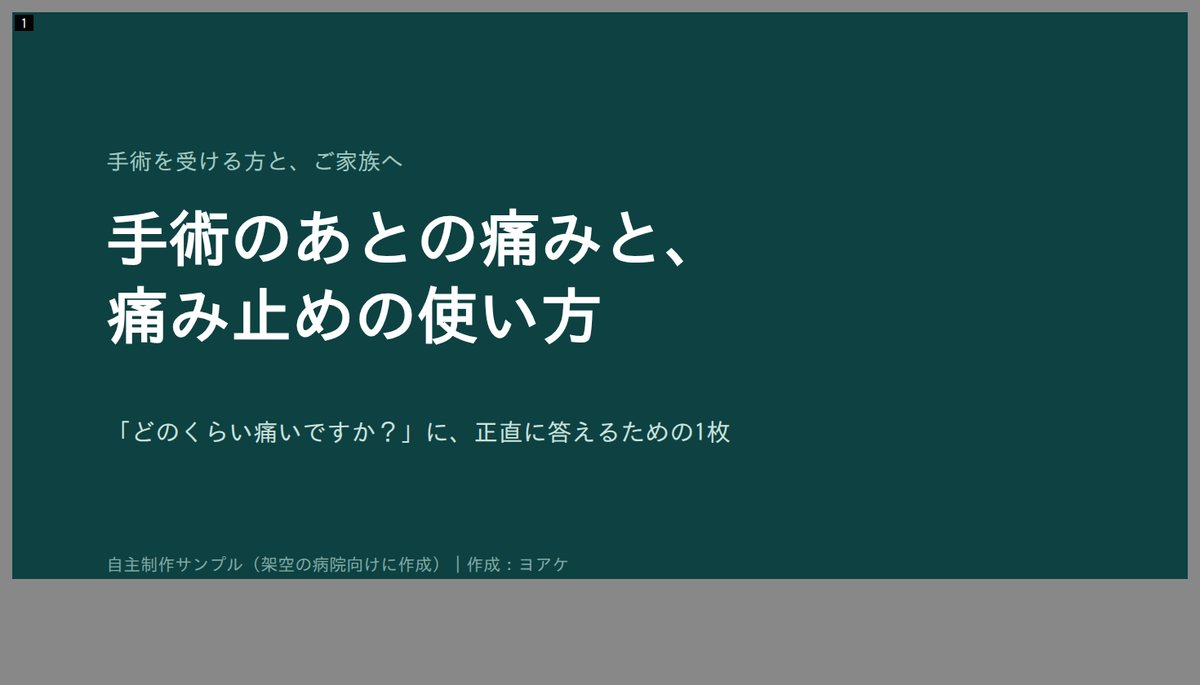
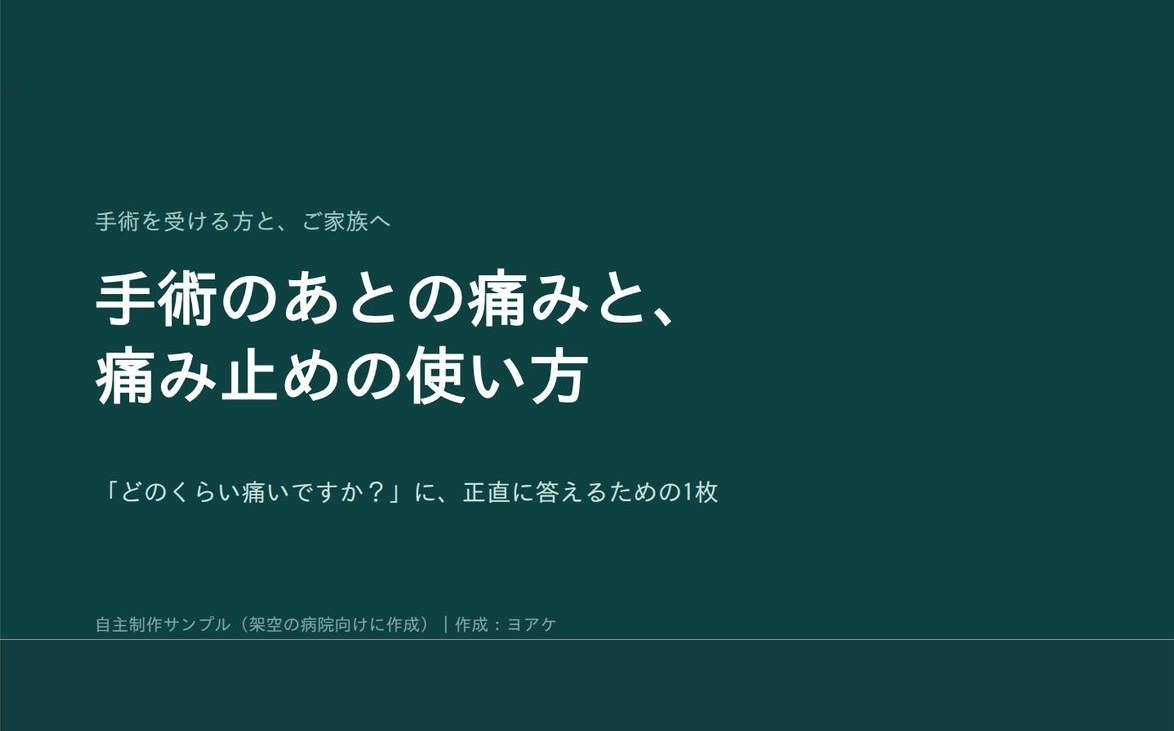
PR #14 の公開前レビューで見つけた3点を直す
yoake リポジトリの 営業/ポートフォリオv1_公開前レビュー_2026-08-27.md で
挙げた4点のうち、直すことにした3点。
（4点目の「無料」は厚生労働省の医療広告ガイドラインQ&A Q2-12 に当たって
確かめた結果、このままで問題ないと判断した）

① 資料作成の節が、カード1枚なのに2列固定グリッドで右半分を空けていた
   .articles.two:has(> .article:only-child) を足して、
   1枚のときだけ1列にした。:has() が効かない古いブラウザでは
   これまでどおり2列に戻るだけなので、壊れない。
   複数枚ある WEB の節は2列のまま（488px 488px で確認）。

② サムネイル画像に灰色の帯とスライド番号のバッジが焼き込まれていた
   もとの assets/work-shiryo.jpg は 1200×685 で、
   スライドは x12-1185 / y12-579 の範囲。残りは灰色の縁。
   カード側は object-fit: cover の 440×274 なので、
   下の灰色の帯 105px がそのまま出ていた。

   スライドだけを切り出すと比率が 2.069 になり、左右が22%切れて
   見出しの「手」の字が欠ける。そこで切り取らず、
   上下にスライド自身の端の行を伸ばして比率を合わせた。
   あわせて、左上に焼き込まれていたスライド番号「1」のバッジも外した
   （灰色の縁に隠れていたが、縁を取ると出てくるため）。
   結果は 1174×731。**横は1pxも切れない。**

③ 在宅クリニックLPの電話番号が押せるリンクのままだった
   tel:0000-00-0000 は実在しない番号。すぐ下に「サンプルの番号です」と
   書いてあるが、スマホで押すと発信しようとする。
   <a> を <span> に変えた。.cta は display:block で、
   <a> であることに依存していないので見た目は変わらない
   （SPAN / display:block / 背景色そのまま / 幅350px を描画して確認）。

確認: 幅390pxと1280pxで描画し、横スクロールなし・
tel: リンク0件・画像はすべて読める。

Claude-Session: https://claude.ai/code/session_014jA1swT6cHyURSrMpsKzc7

diff --git a/works/zaitaku/index.html b/works/zaitaku/index.html
@@ -134,7 +134,7 @@
   <h2><span class="w">まず、</span><span class="w">話を</span><span class="w">聞くだけに</span><span class="w">しませんか</span></h2>
   <p><span class="w">決めるのは、</span><br><span class="w">話を聞いた</span><span class="w">あとで</span><span class="w">大丈夫です。</span><br><span class="w">退院日が</span><span class="w">決まっていなくても</span><span class="w">相談できます。</span></p>
   <div class="ctabox">
-    <a class="cta big" href="tel:0000-00-0000">お電話で相談する</a>
+    <span class="cta big">お電話で相談する</span>
     <p class="ctanote"><span class="w">0000-00-0000(サンプルの番号です)</span><br><span class="w">このサンプルでは</span><span class="w">送信先が</span><span class="w">ないため、</span><br><span class="w">申込フォームは</span><span class="w">置いていません</span></p>
   </div>
   <p class="close"><span class="w">相談だけで</span><span class="w">終わって</span><span class="w">かまいません。</span></p>

diff --git a/index.html b/index.html
@@ -196,6 +196,8 @@
   .article h3 { font-size: 15.5px; line-height: 1.7; margin: 0 0 10px; }
   .article p { font-size: 13px; color: var(--muted); margin: 0; }
   .articles.two { grid-template-columns: repeat(2, 1fr); }
+  /* カードが1枚だけのときは2列にしない。右半分が空いて、その節だけスカスカに見える */
+  .articles.two:has(> .article:only-child) { grid-template-columns: minmax(0, 520px); }
   @media (max-width: 720px) { .articles.two { grid-template-columns: 1fr; } }
   .article .alink { margin-top: 14px; }
   .article .alink a { color: var(--red); font-weight: 700; font-size: 13px; letter-spacing: 0.06em; text-decoration: none; }
